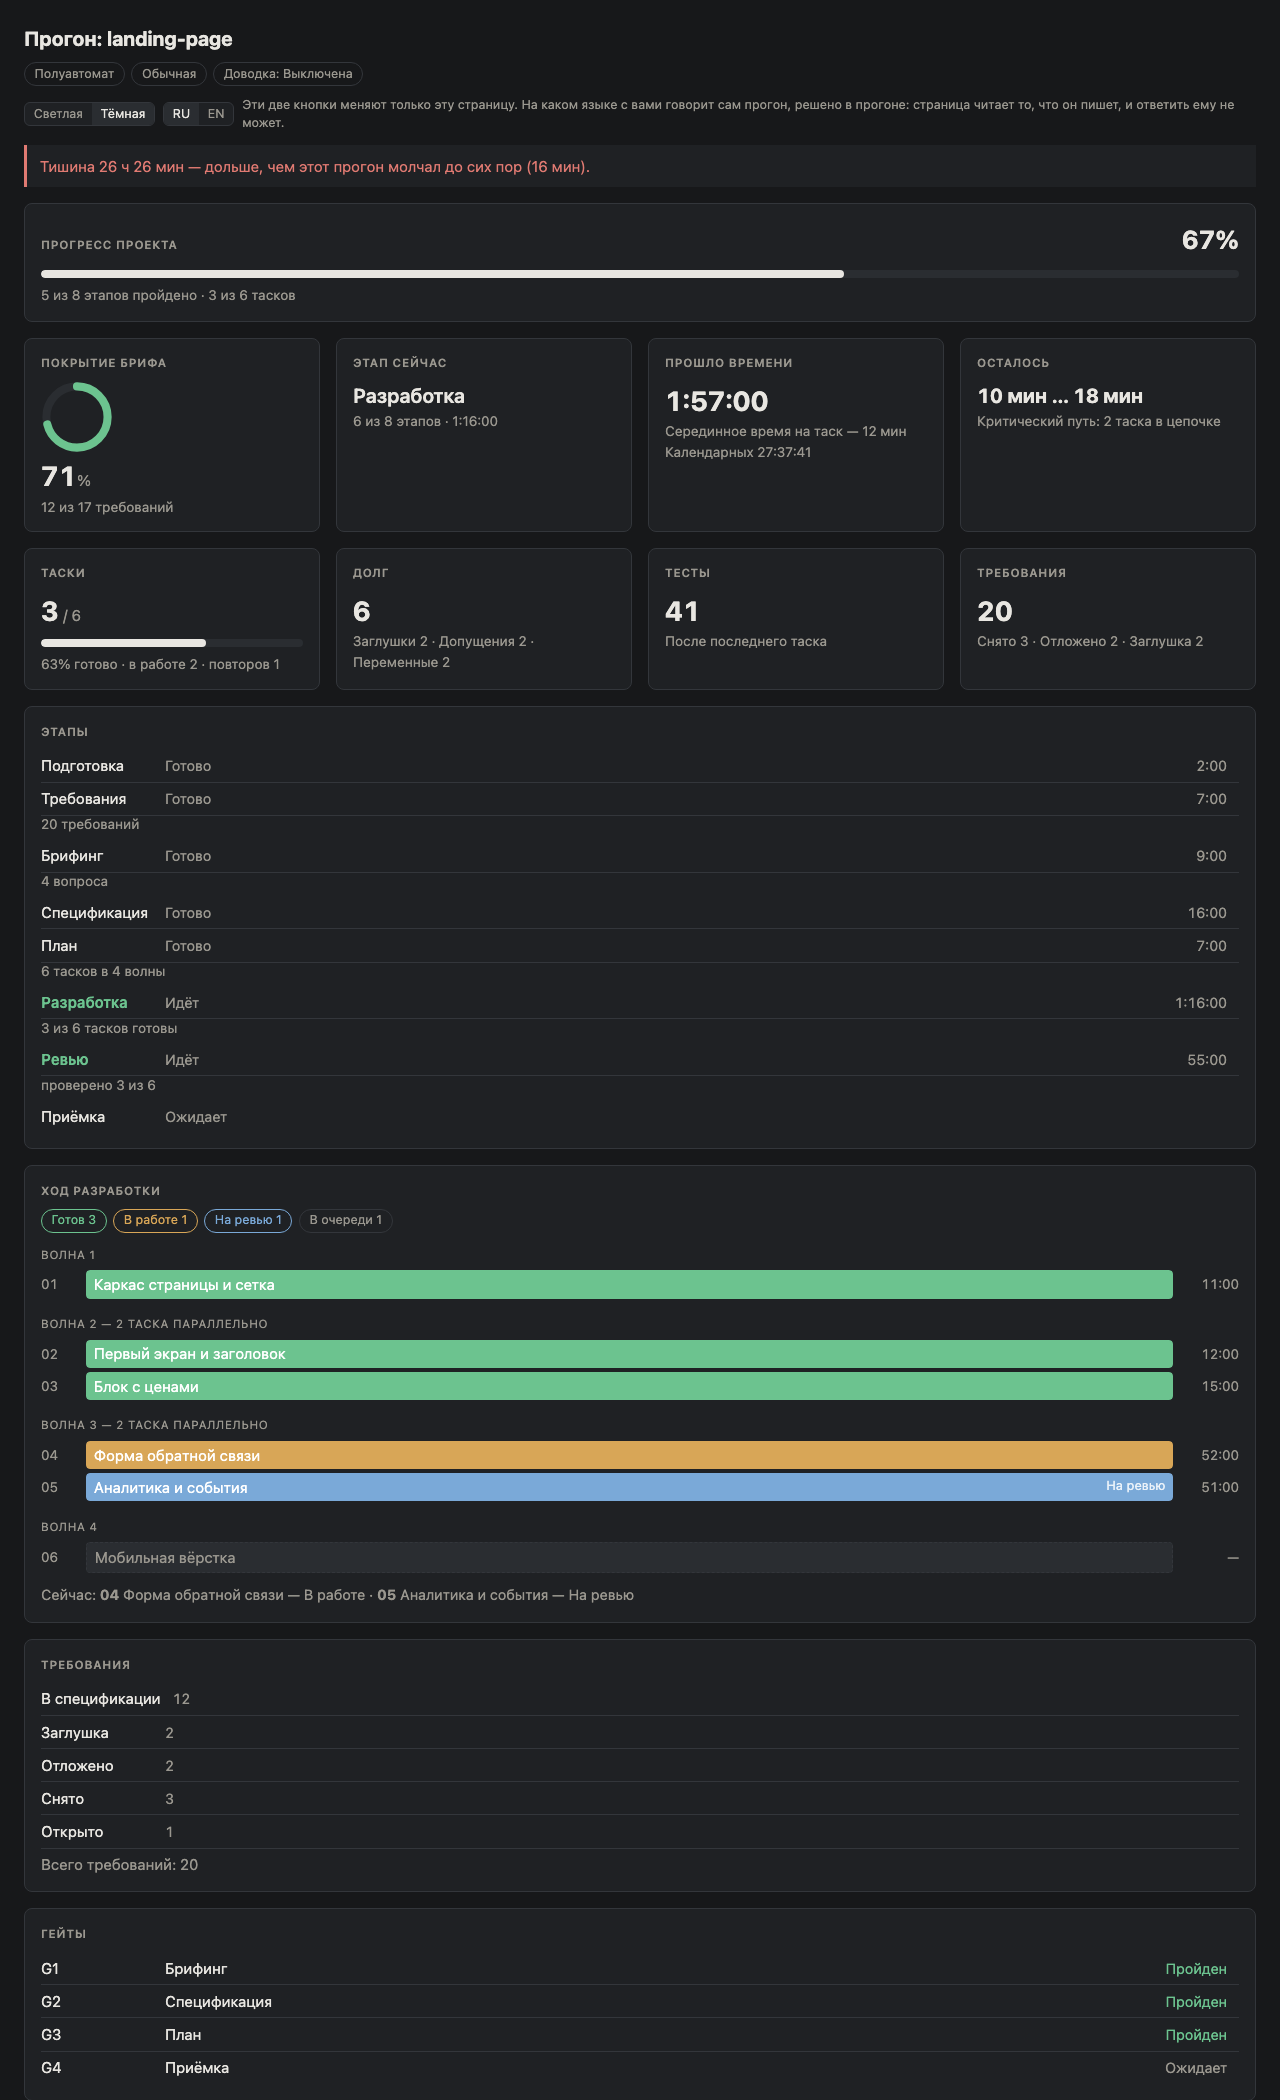
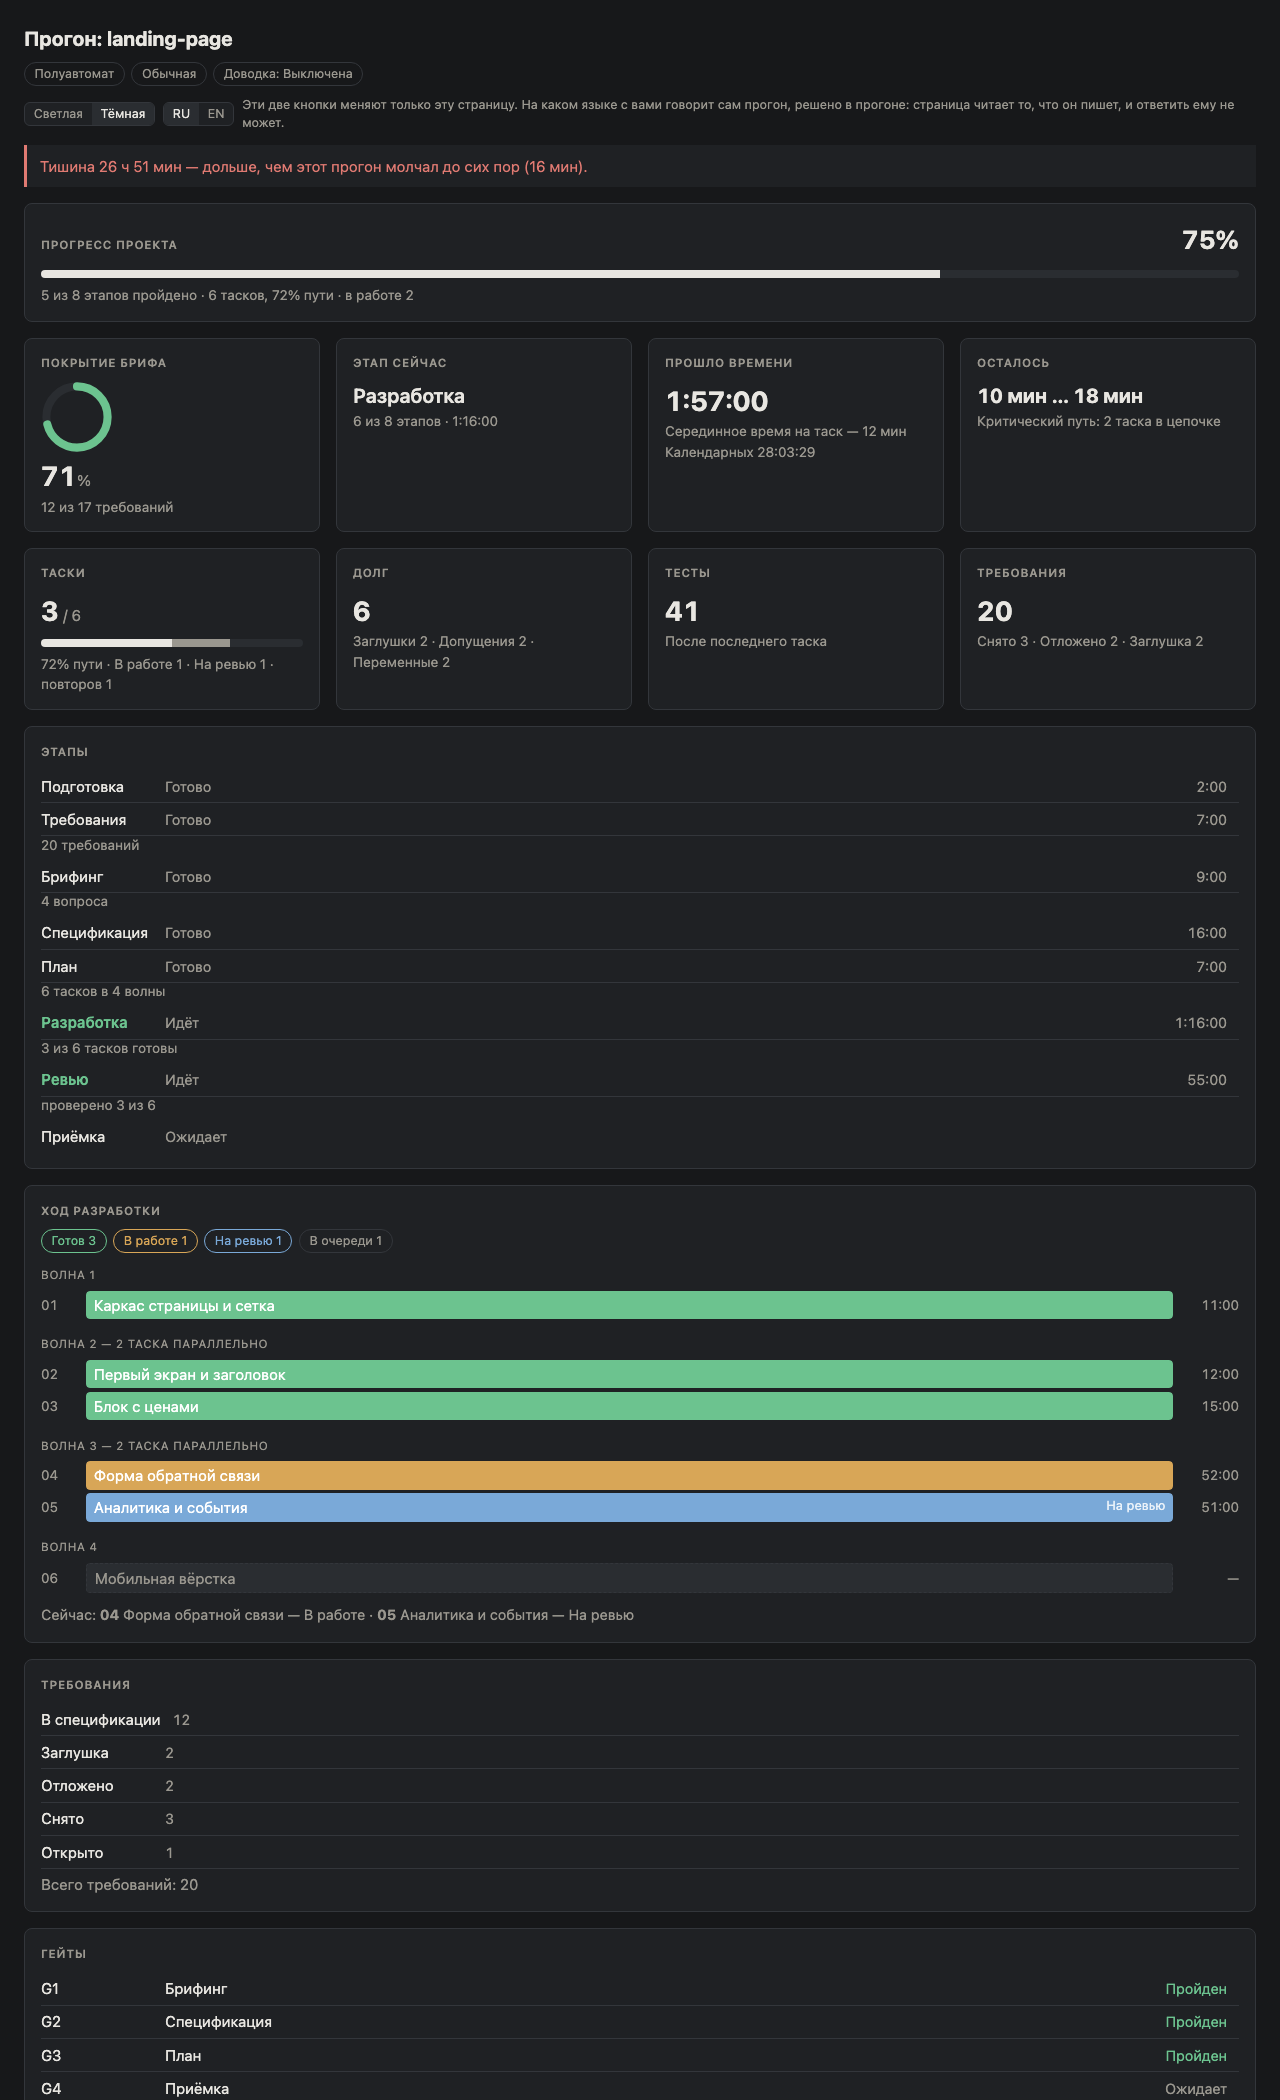
test(dashboard): hold the run that read as stalled, and give sync.py its first test
The логика tests carry the прогон from the screenshots as a fixture — three
review, two running, one pending — and assert the two numbers it used to show:
not 42% for the whole прогон and not 38% on the card. A таск moving review →
repair must lower the bar, and the test says in a comment that this is the
point, so nobody clamps it monotonic later.

sync-contract.test.ts drives sync.py as a process, because its exit code and
what it prints are the whole of what a run reads. It stops the server each run
raises, so the suite leaks no detached processes.

Both screenshots are regenerated: the progress bar, its sub-line and the таски
card all moved, and docs/dashboard.md now says why the bar counts distance
rather than finished таски — and why it is allowed to fall.

diff --git a/scripts/validate/dashboard-logic.test.ts b/scripts/validate/dashboard-logic.test.ts
@@ -60,11 +60,15 @@ interface Logic {
   activeSpan: (from: number, to: number, marks: number[]) => number;
   worked: (from: string, state: unknown, now: number, until?: string, marks?: number[]) => number | null;
   stagePosition: (state: unknown) => { position: number; total: number };
+  TASK_ORDER: string[];
+  SHARE_BY_STATUS: Record<string, number>;
   countTasks: (tasks: unknown) => Record<string, number>;
+  taskShare: (tasks: unknown) => { share: number; done: number; total: number };
   coverage: (list: unknown) => { percent: number; inSpec: number; live: number };
   overallProgress: (state: unknown) => {
     percent: number; stagesDone: number; stagesTotal: number;
     tasksDone: number; tasksTotal: number;
+    tasksActive: number; tasksOffContract: number; tasksShare: number;
   };
   taskDurations: (state: unknown, now: number, marks?: number[]) => number[];
   medianTaskMs: (state: unknown, now: number, marks?: number[]) => number | null;
@@ -485,6 +489,138 @@ test('inside the build the bar moves with the таски', () => {
   assert.ok(half.percent > none.percent, 'a finished таск must move the bar');
   assert.equal(half.tasksDone, 1);
   assert.equal(half.tasksTotal, 2);
+});
+
+// --- the counters, and the прогон that exposed them --------------------------
+
+// Three review, two running, one `pending` — the run behind the screenshots in
+// docs/, read out of ~/Projects/My/test2/.maestro/state.js. `pending` is a
+// стадия's status and a гейт's; it is not one a таск may carry.
+const STALLED = [
+  task('01', { status: 'review' }), task('02', { status: 'review' }),
+  task('03', { status: 'review' }),
+  task('04', { status: 'running' }), task('05', { status: 'running' }),
+  task('06', { status: 'pending' }),
+];
+
+const BUILDING = [
+  { id: 'preflight', status: 'done' }, { id: 'manifest', status: 'done' },
+  { id: 'briefing', status: 'done' }, { id: 'spec', status: 'done' },
+  { id: 'plan', status: 'done' }, { id: 'build', status: 'active' },
+];
+
+test('every таск lands in a bucket, so the chips add up to the total', () => {
+  const counts = L.countTasks(STALLED);
+  const buckets = [...L.TASK_ORDER, 'offContract']
+    .reduce((sum, key) => sum + (counts[key] ?? 0), 0);
+  assert.equal(counts['total'], 6);
+  assert.equal(buckets, 6);
+  assert.equal(counts['offContract'], 1);
+  // Unknown is not known to be moving: the off-contract таск stays out of this.
+  assert.equal(counts['active'], 5);
+});
+
+test('a hole in the list is counted rather than skipped', () => {
+  const counts = L.countTasks([null, undefined, task('01', { status: 'done' })]);
+  assert.equal(counts['total'], 3);
+  assert.equal(counts['offContract'], 2);
+  assert.equal(counts['done'], 1);
+});
+
+test('a status weighs what the scale says, and an unknown one weighs nothing', () => {
+  const weigh = (status: string): number => L.taskShare([task('01', { status })]).share;
+  assert.equal(weigh('done'), 1);
+  assert.equal(weigh('review'), 0.8);
+  assert.equal(weigh('repair'), 0.5);
+  assert.equal(weigh('running'), 0.5);
+  assert.equal(weigh('queued'), 0);
+  assert.equal(weigh('failed'), 0);
+  assert.equal(weigh('pending'), 0);
+  assert.deepEqual({ ...L.taskShare([]) }, { share: 0, done: 0, total: 0 });
+});
+
+test('the scale is the mirror of the one Осталось grades the remainder by', () => {
+  // estimateMs owes 0.2 of a median for review and 0.5 for repair. Two figures
+  // on one screen must not disagree about the same таск, so this is the same
+  // table read from the other end — not a second opinion about progress.
+  for (const [status, remaining] of [['review', 0.2], ['repair', 0.5], ['done', 0]] as const) {
+    assert.equal(L.SHARE_BY_STATUS[status], 1 - remaining, status);
+  }
+});
+
+test('the run behind the screenshots no longer reads as stalled', () => {
+  const progress = L.overallProgress(bare({ stages: BUILDING, tasks: STALLED }));
+  const share = L.taskShare(STALLED);
+
+  // 3 × 0.8 + 2 × 0.5 = 3.4 of six.
+  assert.equal(Math.round(share.share * 100), 57);
+  // Six stages of fifteen weight units behind it, plus 3.4/6 of разработка's six.
+  assert.equal(progress.percent, 63);
+  // The two numbers the screenshots showed while five таски were in motion.
+  assert.notEqual(progress.percent, 42);
+  assert.notEqual(Math.round(share.share * 100), 38);
+  assert.equal(progress.tasksDone, 0);
+  assert.equal(progress.tasksOffContract, 1);
+  assert.equal(progress.tasksActive, 5);
+});
+
+test('the bar falls when a review sends a таск back, and that is the point', () => {
+  // A bar that only ever rises lies once, quietly, at the moment a review
+  // fails. This test exists so nobody "fixes" the fall into a monotonic clamp.
+  const before = L.overallProgress(bare({ stages: BUILDING, tasks: STALLED }));
+  const after = L.overallProgress(bare({
+    stages: BUILDING,
+    tasks: STALLED.map(t => (t['id'] === '01' ? { ...t, status: 'repair' } : t)),
+  }));
+  assert.ok(after.percent < before.percent,
+    `expected a fall from ${before.percent}, got ${after.percent}`);
+});
+
+test('an open build with nothing finished still clears its floor', () => {
+  const progress = L.overallProgress(bare({
+    stages: BUILDING,
+    tasks: [task('01'), task('02'), task('03')],
+  }));
+  assert.equal(progress.tasksShare, 0);
+  // 6 of 15 behind it, plus the 5% floor of разработка's six.
+  assert.equal(progress.percent, 42);
+});
+
+test('both registers of both languages name the share they were built from', () => {
+  const state = bare({ stages: BUILDING, tasks: STALLED });
+  const marks = L.collectMarks(state);
+  const now = AT('2026-08-19T14:00:00.000Z');
+  const share = String(Math.round(L.taskShare(STALLED).share * 100));
+
+  for (const language of ['ru', 'en']) {
+    for (const register of ['normal', 'plain']) {
+      for (const key of ['progress', 'tasks']) {
+        const said = L.explain(key, state, now, marks, register, language).join(' ');
+        assert.match(said, new RegExp(share + '%'),
+          `${language}/${register}/${key} must name the share the region shows`);
+        assert.ok(!/три четверти|three quarters/.test(said),
+          `${language}/${register}/${key} still describes the scale it no longer uses`);
+      }
+    }
+  }
+});
+
+test('an off-contract таск is named in every explanation that counts it', () => {
+  const state = bare({ stages: BUILDING, tasks: STALLED });
+  const clean = bare({ stages: BUILDING, tasks: STALLED.slice(0, 5) });
+  const marks = L.collectMarks(state);
+  const now = AT('2026-08-19T14:00:00.000Z');
+
+  for (const language of ['ru', 'en']) {
+    for (const register of ['normal', 'plain']) {
+      for (const key of ['progress', 'tasks']) {
+        const said = L.explain(key, state, now, marks, register, language).join(' ');
+        const quiet = L.explain(key, clean, now, marks, register, language).join(' ');
+        assert.ok(said.length > quiet.length,
+          `${language}/${register}/${key} says nothing about the таск it could not count`);
+      }
+    }
+  }
 });
 
 test('a stage nobody skipped and nobody started contributes nothing', () => {

diff --git a/scripts/validate/sync-contract.test.ts b/scripts/validate/sync-contract.test.ts
@@ -1,0 +1,123 @@
+// The first test `sync.py` has ever had.
+//
+// It is the only executable this repository copies into a real прогон, and it
+// is the only place a status the contract does not define can be caught while
+// the run is still going. `npm run check` reads none of it — `bundle-integrity`
+// walks `.md` — so without this file the check that guards a прогон is itself
+// unguarded.
+//
+// The script is driven as a process rather than imported, because what is under
+// test is its exit code and what it prints: a run's orchestrator reads exactly
+// those two things and nothing else.
+
+import test from 'node:test';
+import assert from 'node:assert/strict';
+import { spawnSync } from 'node:child_process';
+import { mkdtemp, writeFile, copyFile, readFile, rm } from 'node:fs/promises';
+import { tmpdir } from 'node:os';
+import path from 'node:path';
+
+const SYNC = 'skills/maestro/tools/sync.py';
+const PAGE = 'skills/maestro/assets/dashboard.html';
+
+/** Whether a python3 is on this machine at all. */
+const python = ((): string | null => {
+  const probe = spawnSync('python3', ['--version'], { encoding: 'utf8' });
+  return probe.status === 0 ? 'python3' : null;
+})();
+
+const STATE = {
+  contractVersion: 2,
+  runId: 'r1',
+  slug: 'landing-page',
+  startedAt: '2026-08-19T10:00:00.000Z',
+  updatedAt: '2026-08-19T12:00:00.000Z',
+  mode: 'semi',
+  depth: 'normal',
+  polish: false,
+  dialChanges: [],
+  currentStage: 'build',
+  stages: [{ id: 'build', status: 'active' }],
+  tasks: [{ id: '01', status: 'review' }, { id: '02', status: 'queued' }],
+  requirements: [{ id: 'R01', status: 'in-spec' }],
+  gates: [{ id: 'G1', status: 'passed' }],
+  debt: { placeholders: [], assumptions: [], emptyEnv: [] },
+  additions: [],
+  tests: { passed: 3, failed: 0 },
+};
+
+interface Outcome { status: number; out: string }
+
+/**
+ * Run sync.py over a state, in a directory of its own, and stop the server it
+ * raises. Leaving that server running would leak a detached process per test.
+ */
+async function sync(state: unknown): Promise<Outcome> {
+  const root = await mkdtemp(path.join(tmpdir(), 'sync-contract-'));
+  try {
+    await copyFile(SYNC, path.join(root, 'sync.py'));
+    await copyFile(PAGE, path.join(root, 'dashboard.html'));
+    await writeFile(
+      path.join(root, 'state.js'),
+      `globalThis.MAESTRO_STATE = ${JSON.stringify(state)};\n`,
+      'utf8',
+    );
+
+    const done = spawnSync(python as string, [path.join(root, 'sync.py')], { encoding: 'utf8' });
+    return { status: done.status ?? -1, out: (done.stdout ?? '') + (done.stderr ?? '') };
+  } finally {
+    try {
+      const record = JSON.parse(await readFile(path.join(root, 'serve.json'), 'utf8')) as
+        { pid?: number };
+      if (typeof record.pid === 'number') process.kill(record.pid, 'SIGTERM');
+    } catch {
+      // No server was raised, or it is already gone. Either is fine.
+    }
+    await rm(root, { recursive: true, force: true });
+  }
+}
+
+test('a state whose statuses are all the contract\'s passes', { skip: python === null }, async () => {
+  const done = await sync(STATE);
+  assert.equal(done.status, 0, done.out);
+  assert.match(done.out, /http:\/\/localhost:\d+\/dashboard\.html/);
+});
+
+test('a таск written `pending` is named, and the run is told', { skip: python === null }, async () => {
+  // The defect exactly as a real прогон wrote it: `pending` is a стадия's word
+  // and a гейт's, and the phase file that cuts таски never said otherwise.
+  const done = await sync({
+    ...STATE,
+    tasks: [{ id: '01', status: 'review' }, { id: '02', status: 'pending' }],
+  });
+  assert.equal(done.status, 1, done.out);
+  assert.match(done.out, /tasks\[1\]\.status is "pending"/);
+  assert.match(done.out, /the contract allows queued, running, review, repair, done, failed/);
+});
+
+test('the address comes first, because a wrong status is still worth showing',
+  { skip: python === null }, async () => {
+    const done = await sync({ ...STATE, gates: [{ id: 'G1', status: 'green' }] });
+    assert.equal(done.status, 1, done.out);
+    const address = done.out.indexOf('http://localhost');
+    const finding = done.out.indexOf('gates[0].status');
+    assert.ok(address !== -1 && address < finding,
+      `the дашборд must be reachable before the complaint: ${done.out}`);
+  });
+
+test('an entry with no status at all is reported too', { skip: python === null }, async () => {
+  // Absent is as uncountable on the page as wrong, and the contract requires it.
+  const done = await sync({ ...STATE, stages: [{ id: 'build' }] });
+  assert.equal(done.status, 1, done.out);
+  assert.match(done.out, /stages\[0\]\.status is null/);
+});
+
+test('every offender is named, not just the first', { skip: python === null }, async () => {
+  const done = await sync({
+    ...STATE,
+    tasks: [{ id: '01', status: 'pending' }, { id: '02', status: 'blocked' }],
+  });
+  assert.equal(done.status, 1, done.out);
+  assert.match(done.out, /tasks\[0\]\.status is "pending"/);
+  assert.match(done.out, /tasks\[1\]\.status is "blocked"/);
+});

diff --git a/docs/dashboard.md b/docs/dashboard.md
@@ -19,8 +19,18 @@ source of truth about a run, and the second one is silently wrong.
 
 The page opens with one bar: how much of the прогон is behind you. It is
 weighted by how long each stage takes rather than counting stages equally, and
-inside разработки it is subdivided by finished таски — so it creeps with the
-work instead of standing still for an hour and then jumping.
+inside разработки it is subdivided by **how far the таски have got** — so it
+creeps with the work instead of standing still for an hour and then jumping.
+
+**Not by how many are finished, and the difference is hours long.** A таск is
+marked `done` by the ревью phase, which runs after разработка, so a bar counting
+only finished таски stands at its floor for the whole of the longest stage. Each
+status carries its own share instead: `done` a whole one, `review` 0.8,
+`repair` and `running` a half, `queued` nothing. That is the same scale
+«Осталось» grades the remainder by, read from the other end, so the two numbers
+cannot disagree about the same таск — and it means the bar can fall, which it
+should: a таск sent from ревью back to ремонт lost work, and a bar that only
+ever rises would hide exactly that.
 
 Beneath it are eight cards. Four of them answer «где мы» — покрытие брифа, этап
 сейчас, прошло времени, осталось — and four answer «что осталось закрыть» —
@@ -30,6 +40,12 @@ run state at render time; none is stored.
 **Осталось is a range and refuses to be sharper.** It is the median of finished
 таски measured along the remaining critical path, and below two finished таски
 it says *рано считать* rather than guessing.
+
+The `Таски` card keeps the two apart on purpose: the big figure is the count of
+**accepted** таски and the bar behind it runs further, in a second, muted
+segment, for the work in flight. Before that, the card read «0 / 6» above a bar
+filled to 38% and the words «38% готово» — three numbers about one thing, two of
+them disagreeing.
 
 The stage timeline is the run: eight stages in order, the current one marked,
 each with the one-phrase note the phase left and its own duration.
@@ -48,6 +64,14 @@ not do is renumber, because rows jumping between groups read as a lost plan.
 The «N тасков параллельно» on a wave is read from the clocks rather than from
 the size of the wave. A layer says what *may* run together; only the timestamps
 say what did.
+
+**A таск whose status the state contract does not define is shown, not lost.**
+It gets a chip of its own — «Вне контракта» — its status printed in the row as
+it was written, and no share of the bar. A real прогон wrote a таск `pending`,
+which is a стадия's word, and the chips then summed to five against a total of
+six: a page whose own numbers disagree has stopped being a record. The page
+never repaints such a таск into a status that does exist — guessing is the
+writer's job, and this page is the reader.
 
 Requirement coverage is counted rather than claimed: every task carries the
 requirement ids it traces to, which is what G3 checks in both directions.
